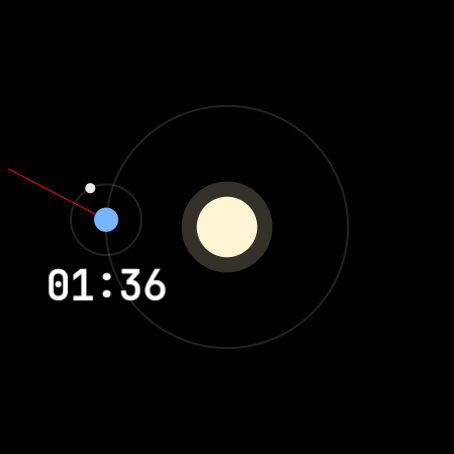
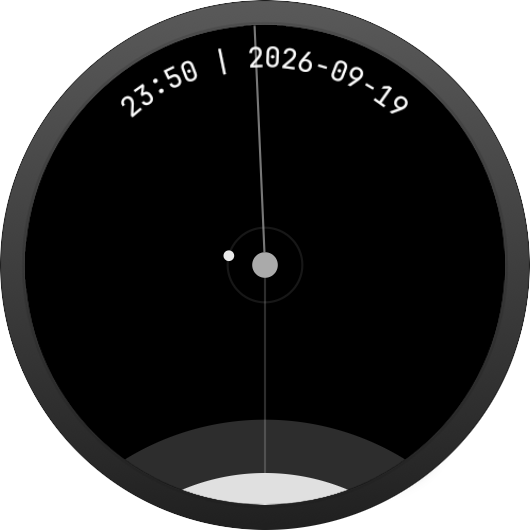
Refactor to geocentric and add color profiles

diff --git a/README.md b/README.md
@@ -1,6 +1,6 @@
 # Orrery Wear OS Watch Face
 
-An astronomical Wear OS watch face showing a real-time mechanical model of the solar system (Sun, Earth, and Moon) built using the modern **Watch Face Format (WFF) version 2**.
+An astronomical Wear OS watch face showing a real-time geocentric model of the Earth, Moon, and Sun, built using the modern **Watch Face Format (WFF) version 4**.
 
 ![Orrery Watch Face](screenshot.png)
 
@@ -8,29 +8,34 @@ An astronomical Wear OS watch face showing a real-time mechanical model of the s
 
 ## 🌌 Visual & Astronomical Mechanics
 
-The watch face renders a real-time orbit system centered on the Sun:
-* **The Sun**: Stationary in the center of the watch face.
-* **The Earth**: Orbits the Sun once every 365.25 days using the `[DAY_OF_YEAR]` system variable.
-* **The Moon**: Orbits the Earth using the system-provided `[MOON_PHASE]` source (0–28 lunar cycle position). At New Moon (0), the Moon sits between Earth and Sun; at Full Moon (14), it's on the opposite side.
+The watch face renders a real-time system centered on the Earth:
+* **The Earth**: Stationary in the exact center of the watch face.
+* **The Sun**: A massive celestial body whose top edge glows from the bottom of the screen.
+* **The Moon**: Orbits the Earth using the system-provided `[MOON_PHASE_POSITION]` source (0–28 lunar cycle position). At New Moon (phase 0), the Moon sits perfectly at the bottom between the Earth and the Sun; at Full Moon (phase 14), it sits at the top on the opposite side.
 
-### 📍 The Rotating Meridian (Red Line)
-To signal your approximate location on Earth (local meridian/timezone) relative to the Sun, a red pointer line starts at the Earth's surface and extends all the way to the circular edge of the screen.
+### 📍 The Rotating Meridian (Pointer Line)
+To signal your approximate location on Earth (local meridian/timezone) relative to the Sun, a pointer line starts at the Earth's center and extends all the way to the circular edge of the screen.
 
-The line is rotated dynamically based on both the Earth's orbital position and the time of day:
-$$\text{Rotation Angle} = \text{[DAY\\_OF\\_YEAR]} \times 0.9863^\circ + \text{[HOUR\\_0\\_23]} \times 15^\circ + \text{[MINUTE]} \times 0.25^\circ + 90^\circ$$
+Because the Sun is fixed at the bottom (representing Solar Noon), the meridian line functions as a standard 24-hour clock hand:
+$$\text{Rotation Angle} = \text{[HOUR\\_0\\_23]} \times 15^\circ + \text{[MINUTE]} \times 0.25^\circ$$
 
-* **Orbital Angle (`[DAY_OF_YEAR] * 0.9863`)**: Offsets the rotation so the zero-point is relative to where the Earth currently resides in its 365-day orbit.
 * **Rotation Rate (`15°/hour` & `0.25°/minute`)**: Represents the Earth's $360^\circ$ rotation on its axis over 24 hours.
-* **Coordinate Offset (`+ 90`)**: Corrects the offset between standard Cartesian math coordinates ($0^\circ$ is right) and Watch Face Format coordinates ($0^\circ$ is top).
 
 #### Visual Outcomes:
-* **At 12:00 PM (Noon)**: The red line points directly at the Sun.
-* **At 12:00 AM (Midnight)**: The red line points directly away from the Sun (into the night side).
-* **At 6:00 AM / 6:00 PM**: The red line is at $90^\circ$ angles relative to the Sun (representing sunrise and sunset).
+* **At 12:00 PM (Noon)**: The line points straight down, directly at the Sun.
+* **At 12:00 AM (Midnight)**: The line points straight up, directly away from the Sun (into the night side).
+* **At 6:00 AM / 6:00 PM**: The line points horizontally to the left or right (representing sunrise and sunset).
+
+---
+
+## 🎨 Color Profiles
+The watch face supports multiple color themes via the customization menu (long-press the watch face to configure):
+* **Earth**: A vibrant palette featuring a blue Earth, bright sun, and a red meridian line.
+* **Monochrome**: A clean, grayscale aesthetic with varying shades of gray for different celestial bodies.
 
 ---
 
 ## ✍ Custom Fonts
 The watch face uses **JetBrains Mono** for the digital clock rendering:
-* Font file: [jetbrains_mono.ttf](file:///Users/arthurs/workspace/agy-workspace/orrery-watchface/app/src/main/res/font/jetbrains_mono.ttf)
-* Declared in [watchface.xml](file:///Users/arthurs/workspace/agy-workspace/orrery-watchface/app/src/main/res/raw/watchface.xml) using `<Font family="jetbrains_mono" ... />`.
+* Font file: `app/src/main/res/font/jetbrains_mono.ttf`
+* Declared in `watchface.xml` using `<Font family="jetbrains_mono" ... />`.
